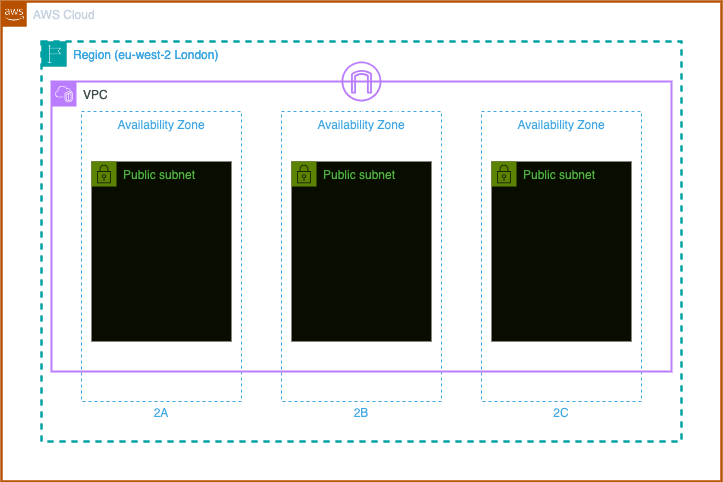
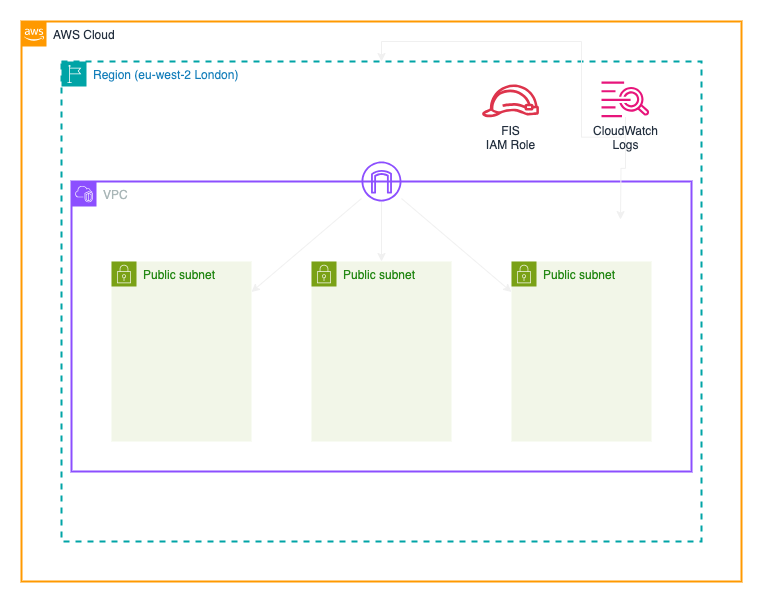
updated code

diff --git a/steps/step03/ec2_files/template.html b/steps/step03/ec2_files/template.html
@@ -1,0 +1,13 @@
+<!DOCTYPE html>
+<html lang="en">
+<head>
+    <meta charset="UTF-8">
+    <meta name="viewport" content="width=device-width, initial-scale=1.0">
+    <title>Hello World!</title>
+</head>
+<body>
+    <img src="panda.png" alt="Panda Logo" style="float: left; height: 100px">
+    <h1>Server ${ec2_name} (${ec2_id})</h1>
+    <p>I'm running in Availability Zone ${ec2_az}</p>
+</body>
+</html>

diff --git a/steps/step03/README.md b/steps/step03/README.md
@@ -1,0 +1,72 @@
+# Step 03 - Ensuring our service survives.
+
+In the previous experiment, we improved our resilience, cutting down the time it takes to recover from a failure. However, we can still improve this further by ensuring that our service can survive even
+if some of the servers die or are stopped.
+
+## Building our infrastructure.
+This time rather than having a single server in the autoscaling group, we're going to have multiple servers spread across multiple availability zones. This means that if an availability zone fails, we still have servers running in the other availability zones.
+
+Our new architecture will look like this:
+
+![Step 03 infrastructure](../../images/step03.png)
+
+To deploy our infrastructure, make sure we're in the `step03` directory before running the command `terraform init`, and then build our service with the command `terraform apply --auto-approve --var-file ../common/common.tfvars`. This will show the output as the infrastructure is created, completing with output looking something like:
+
+```
+Apply complete! Resources: 6 added, 0 changed, 0 destroyed.
+
+Outputs:
+
+elb_url = "http://step03-funky-elb-2009186052.eu-west-2.elb.amazonaws.com"
+```
+
+As alway, lets try opening that url and make a note of the instance id. This time, if you refresh the page, you should see the instance changing (it might take a couple of refreshes).
+
+## Creating an experiment
+This time, we're going to add a couple of new steps to the experiment.
+
+We're going to start similar to the previous experiment, by creating a new template. Let's revisit the FIS Experiment templates in the AWS Console (either search for FIS, or use the link https://eu-west-2.console.aws.amazon.com/fis/home?region=eu-west-2#ExperimentTemplates) and then choose `Create an experiment template`.
+
+Let's go with these steps:
+1. Specify that we're going to create an alarm targeting just our account.
+1. Provide a description for the template, such as `Stop step02 EC2 instance`, and add a name, something including your panda name at the end to make it easier to identify.
+1. Create an action; provide a name, and then choose either to either stop or terminate the ec2 instances. Click `save`
+1. Click `Add action` again. Add a new name, then for the action, choose `aws:fis:wait`. Next specify that we'll start the action after our first one by choosing the name of the first step from the `Start after` dropdown. Set the duration to `3 minutes` and click `save`.
+1. Finally, click `Add action` again, provide a new name, and again choose either to stop or terminate the ec2 instances, set this start after the pause action. Make sure the targets are set to the same as the first action. Click `save`.
+1. Select the target; we're going to filter on our instance tags again, so choose `Resource tags, filters and parameters`, and add the tags `Panda` and `Experiment` again, this time using `step03` as the `Experiment` value. For the first run of the experiment, we're going to ask it to kill 2 of the 3 available servers, so change `Selection mode` to `count` and set the value to `2`. Click `save`.
+1. Use the role we created at the start, so click on `Use an existing IAM role` and select the role that starts with your panda name.
+1. This time, we're going to set a condition that will stop the experiment. We've already created an alarm that starts with the panda name that will alert if more than a certain number of errors are generated by the loadbalancer. So click on the dropdown next to `Stop conditions` and select the alarm that starts with your panda name.
+1. Click on the `Create an experiment template` button, and in the warning field, enter `create` and then click the `Create an experiment template` button.
+
+So this time, we generated an experiment we can use to check that if we lose a couple of servers, our service will still be available.
+
+This time, for our alarm to generate an alert, we need to create traffic going through the load balancer. We'll need to run the following script in a server
+```bash
+while :
+do
+    http_code=$(curl -s -o /dev/null -w "%{http_code}" http:_load_balancer_url_)
+    if [ $http_code -eq 200 ]; then
+        printf "."
+    else
+        printf "X"
+    fi
+    sleep 0.5
+done
+```
+Replace *_load_balancer_url_* with the url of the load balancer, and run the script in a terminal.
+
+Let's run the experiment by clicking on `Start experiment`, and the same on the next page before entering `start` in the warning field and clicking `Start experiment`.
+
+This is going to test that we can survive 2/3's of the servers in our test service failing, and the experiment should complete in about 3 minutes.
+
+## Re-running our experiment
+But how do we know whether the experiment is actually valid - let's repeat it, but this time we'll stop all servers.
+
+Firstly, check the `instances` in the AWS console and make sure that all of our 3 instances are up and running as we'd expect. We can filter on our panda name to check
+just our servers.
+
+Once we're happy we have all of the servers, let's head back to the `Experiment Templates` in FIS. Rather than creating a new experiment let's modify the one we just ran. Find the template in the list, and click on the template ID. In the `Actions` dropdown at the top of the page, select `Update`. 
+
+Click on the `Targets` section, and change the `Selection mode` to `All` or update the `Number of resources` to 3. Click `Save`. Scroll to the bottom of the template and click `Update an experiment template`. Once the template details are shown, click on `Start experiment` in the top right corner, and confirm you want to `Start`.
+
+If you've stopped the script we were running in the terminal, restart it, then in the AWS Console, restart the experiment. After 2 or 3 minutes, the alarm should trigger and stop the experiment.

diff --git a/steps/step02/README.md b/steps/step02/README.md
@@ -19,7 +19,7 @@ This step will be similar to the previous one, but we need to make sure we're in
 something like:
 
 ```
-pply complete! Resources: 6 added, 0 changed, 0 destroyed.
+Apply complete! Resources: 6 added, 0 changed, 0 destroyed.
 
 Outputs:
 
@@ -70,10 +70,12 @@ Now we have our new template, let's run the experiment. Click on `Start experime
 If we review the instance page in the EC2 console, we'll see that the instance is stopping. If we refresh the load balancer page, we'll see that the page is no longer available. After a few
 minutes, the health checks on the auto-scaling group will fail, and a new instance will be started. If we refresh the load balancer page again, we'll see that the page is available again.
 
+## Cleaning up
+Once you've completed the experiment, you can clean up the resources by running the command `terraform destroy --auto-approve --var-file ../common/common.tfvars`. This will remove the resources we've created in this step.
 
 <br />
 <br />
 
 ---
-Now, please proceed to [step 2 README](../step02/README.md), or
+Now, please proceed to [step 3 README](../step03/README.md), or
 Back to the main [README](../../README.md) file
